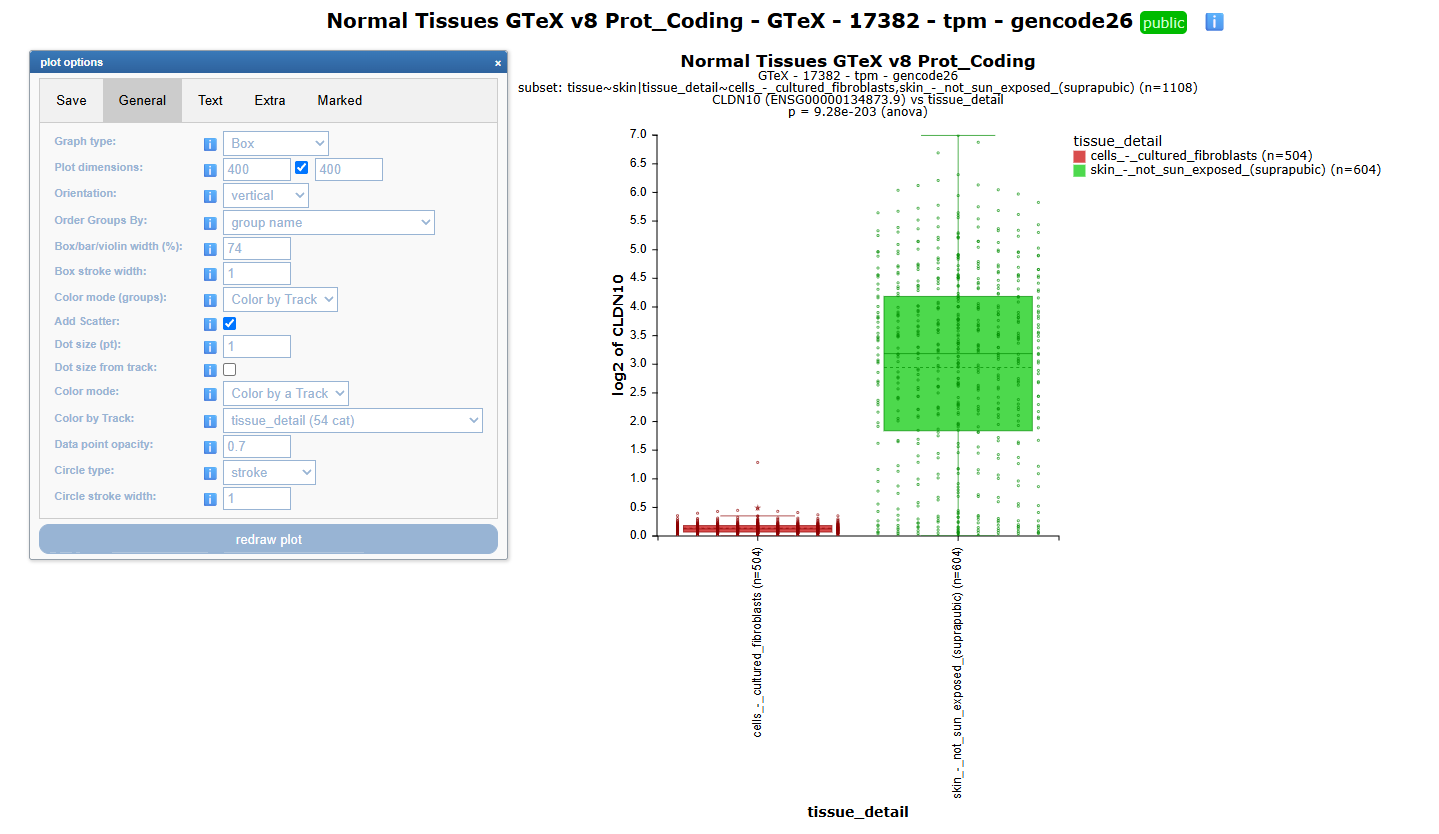
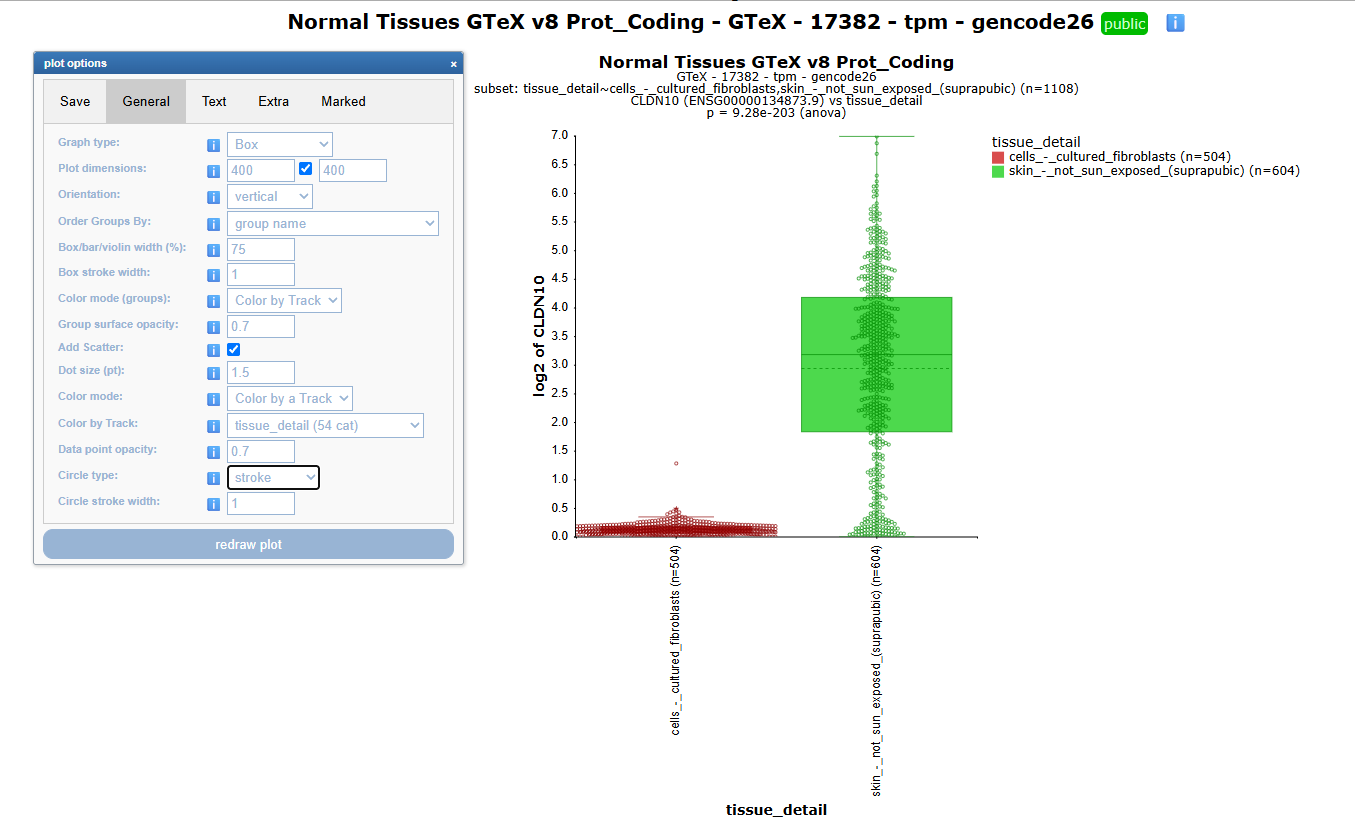
survival

Changed region(s): [[0.0, 0.0, 0.8989, 0.9041], [0.7129, 0.1559, 0.9609, 0.2182], [0.5269, 0.9664, 0.6509, 0.9976]]

diff --git a/docs/Methylation_analysis.md b/docs/Methylation_analysis.md
@@ -478,16 +478,16 @@ In the "One Way Analysis of Variance (ANOVA)" table, the p-value (3.53e-172, hig
 
 ## Comparing Expression and Methylation Data
 
-In the case where R2 hosts multi-omics data of the same samples, the user can also compare and correlate methylation and expression datasets by displaying both in one plot. In this section, the datasets "Garnett" (normal cells) and "Esteller" (cancer cells) are used. The user takes the following steps to create a dot plot of the methylation and expression datasets:
+In the case where R2 hosts multi-omics data of the same samples, the user can also compare and correlate methylation and expression datasets by displaying both in one plot. In this section, the datasets "Garnett" (normal cells) and "Esteller" (cancer cells) are used. The user takes the following steps to create a correlation scatter plot of the methylation and expression datasets:
 
-**1)** After login to the R2 Platform [1], choose "Across Datasets" under Field 1 checkbox and "View a gene in two datatypes". Click "Next" on the main page to proceed (in Figure 8-1).
+**1)** On the main page, choose "Across Datasets" in field 1 and "View a gene in two datatypes" in field 2. Click "Next" to proceed (Figure 8-1).
 
 ![](_static/images/Methylation/fig8-1.png)
 [**Figure 8-1: Main menu**](_static/images/Methylation/fig8-1.png)
 
 
 
-**2)** On Table "Select data sets to merge" of the next webpage, the user could set the data type and the X- and Y-axis of the dot plot. As shown in Figure 8-2, select "cellline_cancer_pharmaco" on Field "Data set collection", "Methylation data - Cell line Cancer Pharmacogenomic - Esteller - 1028 - custom - ilmnhm450" on Field "Source data" and "Expression data - Cell line Cancer Drug (Sanger) - Garnett - 1017 - RMA - u219" on Field "Target data". Click "Select data sets" to proceed.
+**2)** In the menu "Select data sets to merge" of the next page, the user can choose the datasets and the X- and Y-axis of the scatter plot. As shown in Figure 8-2, select "cellline_cancer_pharmaco" in the field "Data set collection", "Methylation data - Cell line Cancer Pharmacogenomic - Esteller - 1028 - custom - ilmnhm450" in the field "Source data" and "Expression data - Cell line Cancer Drug (Sanger) - Garnett - 1017 - RMA - u219" in the field "Target data". Click "Select data sets" to proceed.
 
 ![](_static/images/Methylation/fig8-2.png)
 
@@ -495,16 +495,13 @@ In the case where R2 hosts multi-omics data of the same samples, the user can al
 
 
 
-**3)** On Table "Adjustable settings" of the next webpage, type "CLDN10" in the left box of Field "Gene / Met_id" and "Gene / Reporter". The two probes from Step 6) on *Section 4 Multiple datasets overview with methylation data* ("cg25032595", "cg16556145") are to be observed. To look at the dot plot of the first probe, type "cg25032595" in the right box of Field "Gene / Met_id" (in Figure 8-3).
+**3)** The two probes from Step 6) in *Section 4 Multiple datasets overview with methylation data* ("cg25032595", "cg16556145") are to be observed. First we will generate the correlation scatter plot of the probe "cg25032595". In the table "Adjustable settings" menu, copy-paste "cg25032595" in the right box of the field "Gene / Met_id". Select the suggested "CLDN10 / cg25032595" with a mouse click. Now, in the field "Gene / Reporter", fill in "CLDN10" in the left field and click with the mouse on the suggested CLDN10/Reporter (Figure 8-3). The setting "Graph type" is set to "XY" Hit Submit.
 
 ![](_static/images/Methylation/fig8-3.jpg)
 
 [**Figure 8-3: Adjustable settings menu (for Probe "cg25032595)**](_static/images/Methylation/fig8-3.jpg)
 
-
-
-
-As shown in Figure 8-4, the user can see the dot plot of the methylation dataset "Esteller" on the X-axis and the expression dataset "Garnett" on the Y-axis for the Probe "cg25032595". There is a significant correlation between the two axes (as p-value is marked in red under the table in Figure 8-4) supporting the idea of DNA hypermethylation decreasing gene expression.
+As shown in Figure 8-4, the user obtained a scatter plot, where each dot represents a sample with its methylation value of probe "cg25032595" of the methylation dataset "Esteller" on the X-axis and its expression value of the dataset "Garnett" on the Y-axis. There is a significant correlation between the two axes (shown by the p-value marked in red, Figure 8-4) supporting the idea of DNA hypermethylation decreasing gene expression.
 
 ![](_static/images/Methylation/fig8-4a.png)
 
@@ -514,27 +511,25 @@ As shown in Figure 8-4, the user can see the dot plot of the methylation dataset
 
 **4)** Repeat the steps from 1) to 3) of this section for the second Probe by typing "cg16556145" in the right box of Field "Gene / Met_id" (in Figure 8-5).
 
-![](_static/images/Methylation/fig8-5a.png)
-
-[**Figure 8-5: "Adjustable settings" menu (for Probe "cg16556145")**](_static/images/Methylation/fig8-5a.png)
-
-
-
-As shown in Figure 8-6, the dot plot for the Probe "cg16556145" is generated. With the significant correlation between the two axes, the concentration tendency of the most dots are the same as the tendency observed in Figure 8-4. One can observe a negative correlation between the methylation and the expression datasets.
+As shown in Figure 8-5, the scatter plot for the Probe "cg16556145" is generated. The significant correlation shows the same dot concentration pattern observed in Figure 8-4, indicating a negative correlation between the methylation and expression datasets.
 
 ![](_static/images/Methylation/fig8-6a.png)
 
-[**Figure 8-6: Comparative log2 dot plot cg16556145**](_static/images/Methylation/fig8-6a.png)
+[**Figure 8-5: Comparative log2 dot plot cg16556145**](_static/images/Methylation/fig8-6a.png)
 
+With a simple check in the gear menu, R2 allows box plots to be added along side the axis of the scatterplot, and histograms can be added as well (Figure 8-6). In some correlation scatter plot linear fit lines can highlight the relation between the axis very well. In this case, while a negative association is real and statistically significant, the shape of the scatter suggests the relationship is better described as "low methylation permits variable expression, while high methylation consistently suppresses it" rather than a simple linear decrease.
 
+![](_static/images/Methylation/fig8-5a.png)
+
+[**Figure 8-6: "Adjustable settings" menu (for Probe "cg16556145")**](_static/images/Methylation/fig8-5a.png)
 
 ---
 
 ## In-Depth Study on Expression Dataset
 
-Let's go back to Normal Tissues GTeX v8 Prot_Coding - GTeX - 17382 - tpm - gencode26 dataset. One could also take a closer look at expression of your gene of interest in certain tissues of the expression dataset on R2 Platform. From an expression box plot, a certain or several tissue types could be selected. In this section, the tissue type "skin" is further investigated with the following steps after the steps in *Section 6 An Expression Box Plot* [8].
+Let's go back to the dataset "Normal Tissues GTeX v8 Prot_Coding - GTeX - 17382 - tpm - gencode26". This dataset allows us to take a closer look at the expression of a gene of interest in selected tissues.  In this section, the tissue type "skin" is further investigated. The steps in *Section 6 An Expression Box Plot* are taken as a starting point, from which we continue with the following steps [8].
 
-**1)** Scroll down to "Adjustable settings" after the expression box plot is executed. Select "tissue (30 cat)" on Field "Subset track". On the pop-up window, click the tissue type "skin (1809)" checkbox and "OK". Click "Submit" to proceed. (In Figure 9-1)
+**1)** Scroll down to "Adjustable settings" after the expression box plot is executed. Set the field "Subset track" to "tissue (30 cat)". On the pop-up window, click the tissue type "skin (1809)" checkbox and "OK". Click "Submit" to proceed. (In Figure 9-1)
 
 ![](_static/images/Methylation/fig9-1a.png)
 
@@ -542,9 +537,10 @@ Let's go back to Normal Tissues GTeX v8 Prot_Coding - GTeX - 17382 - tpm - genco
 
 
 
-**2)** After the box plot on "skin" is executed, the user could further investigate expression level by skin types, such as differences in the expression between fibroblasts and normal skin types. On Table "Adjustable settings", select "tissue_detail (54 cat)" on Field "Track", "tissue_detail (54 cat)" on "Subset track", "Box/dot plot (dots)" on Field "Graph type" and "Color by Track" on Fields "Color mode/(groups)". "tissue_detail (54 cat)" is an in-depth category than the "tissue (30 cat)" category. (In Figure 9-2)
+**2)** After the box plot for "skin" is generated, the user can further investigate expression levels across skin types, such as differences between fibroblasts and normal skin. The "tissue_detail (54 cat)" track annotates such subtypes of the "tissue (30 cat)" category. In the "Adjustable settings" table, set both the "Track" field and the "Subset track" field to "tissue_detail (54 cat)". The user sees a pop-up window. Click on the checkboxes of these two skin types "cells_-\_cultured_fibroblasts (504)" and "skin_-\_not_sun_exposed_(suprapublic) (604)" and hit the "OK" Button. Not-sun-exposed skin cells are chosen to reduce the impacting factor.  
+Set the "Graph type" field to "Box", "Add Scatter" to "true" and the "Color mode (groups)" field to "Color by Track", as shown in Figure 9-2. 
 
-After selecting "tissue_detail (54 cat)" on Field "Subset track", the user sees the pop-up window. Click two skin types checkboxes ("cells_-_cultured_fibroblasts (504)" and "skin_-_not_sun_exposed_(suprapublic) (604)") and "OK" Button. Not-sun-exposed skin cells are chosen to reduce the impacting factor. Click "Submit" to proceed. (In Figure 9-2)
+ Click "Submit" to proceed. 
 
 
 
@@ -564,7 +560,7 @@ After selecting "tissue_detail (54 cat)" on Field "Subset track", the user sees 
 
 
 
-The box plot with dots shown in Figure 9-3 shows the difference of expression levels between fibroblasts and normal skin. Normal skin not exposed to the sun has a higher expression level, compared to the expression level of fibroblasts. (Be reminded that the Y-Axis name is log2 CLDN10 expression.)
+The box plot with dots shown in Figure 9-3 shows the difference of CLDN10 expression levels between fibroblasts and normal skin. Normal skin not exposed to the sun has a higher expression level, compared to the expression level of fibroblasts. (Be reminded that the Y-Axis name is log2 CLDN10 expression)
 
 ![](_static/images/Methylation/fig9-4a.png)
 
@@ -578,7 +574,7 @@ The box plot with dots shown in Figure 9-3 shows the difference of expression le
 
 One could also investigate patient survival probability of a certain tumor type/entity in comparison to the expression for your gene of interest using the R2 Platform. In this section, the "TCGA" dataset is used as an example because it contains several general cancer types (including normal control tissues) and is relatively big.
 
-**1)** Click "Survival (Kaplan-Meier/Cox)" on the left menu of the main page. On Table "Kaplan-Meier analysis using a data set", select Field "Data set" as shown in Figure 10-1.
+**1)** Click "Survival (Kaplan-Meier/Cox)" in the left menu of the main page. In the center menu "Kaplan-Meier analysis using a single data set", select Field "Data set" as shown in Figure 10-1.
 
 ![](_static/images/Methylation/fig10-1.jpg)
 
@@ -586,7 +582,7 @@ One could also investigate patient survival probability of a certain tumor type/
 
 
 
-**2)** On the pop-up box (in Figure 10-2), type "Kidney" on Column {Tissue/Tumor} and select "Kidney Renal Clear Cell Carcinoma" from "tcgars" on Column {Platform}. Click "Confirm selection" button as shown in Figure 10-2.
+**2)** In the pop-up dataset selection grid (in Figure 10-2), type "Kidney" in Column {Tissue/Tumor} and select "Kidney Renal Clear Cell Carcinoma" with "tcgars" in Column {Platform}. Click "Confirm selection" button as shown in Figure 10-2.
 
 ![](_static/images/Methylation/fig10-2.jpg)
 
@@ -594,19 +590,23 @@ One could also investigate patient survival probability of a certain tumor type/
 
 
 
-**3)** Select "a single gene" on Field "Separated by" and click "Next" on the main page to proceed. (in Figure 10-3)
+**3)** Select "a single gene" iin the field "Separated by" and click "Next" on the main page to proceed (Figure 10-3a).
 
 ![](_static/images/Methylation/fig10-3.png)
 
-[**Figure 10-3: "Kaplan-Meier analysis using a data set" Table on main page)**](_static/images/Methylation/fig10-3.png)
+[**Figure 10-3a: "Kaplan-Meier analysis using a data set" Table on main page)**](_static/images/Methylation/fig10-3.png)
 
+Set "Type of Survival" to "overall" and fill in Gene "CLDN10" (Figure 10-3b).
 
+![](_static/images/Methylation/fig10-3b.png)
 
-The result on the next page shows the overall survival probability between patients with high gene of interest expression and low expression (on the left in Figure 10-4) and expression levels with p-values (on the right in Figure 10-4).
+[**Figure 10-3b: "Kaplan-Meier analysis settings)**](_static/images/Methylation/fig10-3b.png)
 
-When the automated separation of patients by expression level produced one big and one small cohort, it should be taken into account that results could be significant, but still not biologically relevant. Further studies should be performed, in order to better understand the contribution of your gene of interest in patient survival. Even though the p-values are significant (statistically valid), the dataset might not be biologically valid as well.
+The result on the next page shows the overall survival probability of patients with high expression of the gene of interest compared to those with low expression (left plot in Figure 10-4). The right graph in Figure 10-4 shows each sample's expression level (Y-axis), with samples ranked along the X-axis. The bars indicate the p-value that would result from splitting the cohort into high and low expression groups at each possible cutoff value. This is the "scan" mode used to identify the optimal cutoff (244.9162 in this example, the cutoff that gives the most significant split).  
+  
+When the automated cutoff produces one large and one small cohort, keep in mind that a statistically significant result isn't necessarily biologically meaningful. Further studies are needed to understand a gene's actual contribution to patient survival — a significant p-value doesn't guarantee biological relevance.
 
-The left graph in Figure 10-4 shows the overall survival probability of two cohorts (on an Y-axis) that are high expression (a line marked in blue) and low expression (a line marked in red) groups, regarding the expression of the gene of interest. An X-axis is the follow-up in months. The total patient number of the cohorts are shown with colors on the right top of the graph ("n=430", "n=103" respectively). One could find out individual information of each sample by hovering over de small vertical line in the plot (in Figure 10-5).
+The left graph in Figure 10-4 shows the overall survival probability (Y-axis) of two cohorts split by expression of the gene of interest: high expression (red line, n=430) and low expression (blue line, n=103). High thus means, the samples that showed higher CLDN10 expression than the "scan" mode identified as the optimal cutoff expression. The X-axis shows follow-up time in months. Hovering over a small vertical tick on either line reveals individual sample information (Figure 10-5).
 
 ![](_static/images/Methylation/fig10-4a.png)
 
@@ -620,34 +620,30 @@ The left graph in Figure 10-4 shows the overall survival probability of two coho
 [**Figure 10-5: Individual information pop-up in "Overall survival probability graph"**](_static/images/Methylation/fig10-5.png)
 
 
-The right graph in Figure 10-4 shows the expression level by "Events" groups. An Y-axis shows the expression level and an X-axis shows the p-values of each sample. The bar graph on the X-axis shows the p-value of each sample. The dots in green on the curve indicate the samples with the "Events" and the dots in red are the samples with no "Events". The definition of the "Events" is different by datasets. These "Events" could be for example relapse free or not (Relapse free means that the patients after primary treatment survived a certain period of time without any symptoms of the cancer). More information on the "Events" dataset label could be found on R2 Platform online tutorial under "Special sample annotation" in *Section 24. R2 Dataset Addition*. [2]
+In the right graph in Figure 10-4 the green dots mark samples with an "Event"; red dots mark samples without one. What counts as an "Event" varies by dataset. In another dataset this could be for example marking relapse (recurrence of the cancer after a symptom-free period following treatment) versus no relapse. More detail on "Event" annotations for a given dataset can be found in the R2 Platform's online tutorial, under "Special sample annotation" in Section 24, R2 Dataset Addition. [2]
 
 Some adjustments are to be made as the survival probability until 60 follow-up months (or 5 years) is more common (on the left graph in Figure 10-4). The expression graph (on the right graph in Figure 10-4) could be also shifted (or cut) by filtering the range with the significant p-values. This could be done by the following steps.
 
-**4)** Scroll down to "Adjustable settings" after two graphs are executed. Type "60" months on Field "Only draw up to". Click "Redraw Graph" to proceed. (In Figure 10-6)
+**4)** Scroll down to the "Adjustable settings" menu. In the "Max. time in months" field, type 60, then click "Redraw Graph" to apply the change (Figure 10-6).
 
 ![](_static/images/Methylation/fig10-6a.png)
 
 [**Figure 10-6:"Adjustable settings" Table**](_static/images/Methylation/fig10-6a.png)
 
-
-Figure 10-7 shows the redrawn "Overall survival probability graph" and the range of the X-axis is adjusted to 60 months (marked in yellow in Figure 10-7). The graph became better to compare the difference between the normal people and cancer patients, as the tails of the two lines in the graph on the right are cut.
+Figure 10-7 shows the redrawn overall survival probability graph, now limited to 60 months of follow-up (highlighted in yellow). This makes it easier to compare survival between the high- and low-expression groups, since the long, sparse tails of both curves in the graph on the left — where only a handful of patients remain at risk — are cut off.
 
 ![](_static/images/Methylation/fig10-7.jpg)
 
 [**Figure 10-7:** "Overall survival probability graph" (after adjustment)**](_static/images/Methylation/fig10-7.jpg)
 
 
+Next, a cutoff point on the "Expression graph" (the right graph in Figure 10-4) could be adjusted with the "Cutoff" field in the "Select a different cut-off" menu underneath the ranked expression plot. The cutoff point is set with the highest p-value by default. To change the cutoff point, the following step is to be done.
 
-
-
-Next, a cutoff point on the "Expression graph" (the right graph in Figure 10-4) could be adjusted on Field "Cutoff" in "Adjustable settings" Table. The cutoff point is set with the highest p-value at default. To change the cutoff point, the following step is to be done.
-
-**5)** Select any data sample which has the high local p-value ("387 - 819.7227: raw p: 0.015 (bonf: 1.000)" in Figure 10-8) on Field "Cutoff" in "Adjustable settings" Table. Type "60" months on Field "Only draw up to" in the same table. Click "Redraw Graph" to proceed. (In Figure 10-8)
+**5)** In the "Cutoff" field, select any data sample which has the high local p-value (e.g. "387 - 819.7227: raw p: 0.015 (bonf: 1.000)") as shown in Figure 10-8. Click "Redraw" to proceed 
 
 ![Adjustable settings table](_static/images/Methylation/fig10-8a.png)
 
-[**Figure 10-8: "Adjustable settings" Table**](_static/images/Methylation/fig10-8a.png)
+[**Figure 10-8: Select a different cut-off**](_static/images/Methylation/fig10-8a.png)
 
 
 
